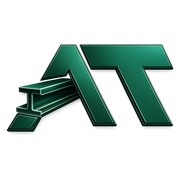
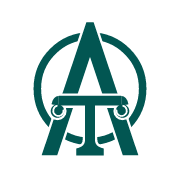
feat(brand): new AT-circle mark + palette re-anchored on #025652
Logo — the owner's flat monogram (A over a broken ring, I-beam T with
rolled crossbar ends) rebuilt as vector: inline BrandMark component
painting in currentColor (brand teal on light, lifted teal in dark,
white over the hero), with the ring/letter gaps as masks so the mark
sits on any background. Site header, admin topbar, proforma letterhead
and the full favicon set (32/192/512/apple, PNGs rendered from the SVG
source of truth in brand/ahantime-mark.svg) all switch to it.

Palette — the emerald ramp is re-derived as a single deep-teal hue
anchored exactly at #025652 (= -700); action/accent/focus/chart tokens
re-tone through the existing --emerald-* names. Steel panel surfaces
tint toward the same teal so panels and mark read as one material.
Contrast: white on --color-action 6.0:1, accent-text on white 8.6:1,
dark-theme accent on surface 4.7:1 — all AA. Hardcoded emeralds in
global-error, catalog export sheet and category art follow the ramp,
and the browser/PWA theme color becomes the brand teal.

385 tests + full production build verified locally.

diff --git a/web/src/styles/tokens.css b/web/src/styles/tokens.css
@@ -22,15 +22,19 @@
   --amber-50:#FFF6EA; --amber-100:#FEEBCE; --amber-200:#FBD49B; --amber-300:#F8BB66;
   --amber-400:#F6A53E; --amber-500:#F5961E; --amber-600:#DB7E0F; --amber-700:#C9740B;
   --amber-800:#A35D0A; --amber-900:#7E480A;
-  /* Brand emerald — "luxury green", pixel-matched to the ahantime_logo.png mark
-     (distinct from the gain/up green below). See §04a Logo in brand-book.md. */
-  --emerald-50:#E8F6F2; --emerald-100:#CDEBE2; --emerald-200:#9DD8C6; --emerald-300:#63C2A5;
-  --emerald-400:#1B9A73; --emerald-500:#178261; --emerald-550:#167D5D; --emerald-600:#12644B; --emerald-700:#0F523D;
-  --emerald-800:#0B4130; --emerald-900:#093124;
+  /* Brand teal — anchored to the AT-circle mark's #025652 (= -700, exact).
+     The whole ramp is the same deep-teal hue (~177°), tightly saturated, so
+     the UI reads sharp and monochromatic around the brand color (distinct
+     from the gain/up green below). Keeps the historical --emerald-* names so
+     every consumer re-tones without churn. */
+  --emerald-50:#E6F4F3; --emerald-100:#C7E8E6; --emerald-200:#94D3CF; --emerald-300:#58BAB4;
+  --emerald-400:#149B93; --emerald-500:#0A7F77; --emerald-550:#067068; --emerald-600:#04635D; --emerald-700:#025652;
+  --emerald-800:#02443F; --emerald-900:#02332F;
   --gain-50:#E9F8EF; --gain-100:#CBEFD8; --gain-500:#15A34A; --gain-600:#128B40; --gain-700:#0E6E33;
   --loss-50:#FDECEB; --loss-100:#FAD2CF; --loss-400:#EA6259; --loss-500:#E0322B; --loss-600:#C42822; --loss-700:#A11F1B;
-  /* Steel — cool gunmetal for the "factory" panels/blocks (distinct from neutral) */
-  --steel-800:#1C242E; --steel-850:#161D26; --steel-900:#111820; --steel-950:#0C1218;
+  /* Steel — gunmetal for the "factory" panels/blocks, tinted toward the brand
+     teal so the dark panels and the mark read as one material */
+  --steel-800:#162A27; --steel-850:#122220; --steel-900:#0E1B1A; --steel-950:#0A1414;
 
   /* ===== SEMANTIC COLOR — LIGHT ===== */
   --color-bg:var(--neutral-50); --color-surface:var(--neutral-0); --color-surface-sunken:var(--neutral-50);
@@ -38,9 +42,11 @@
   --color-hairline:var(--neutral-150); --color-border-strong:var(--neutral-200);
   --color-text:var(--neutral-700); --color-text-strong:var(--neutral-900); --color-text-muted:var(--neutral-500);
   --color-text-placeholder:var(--neutral-400); --color-text-inverse:var(--neutral-0);
+  /* The mark itself — exact brand teal on light surfaces (lifted in dark). */
+  --color-brand:var(--emerald-700);
   --color-accent:var(--emerald-500); --color-accent-text:var(--emerald-700); --color-accent-tint:var(--emerald-50);
-  /* emerald-550, not -500: white text on -500 is 4.77:1, already AA, but -550
-     clears with more margin (5.09:1) for a near-imperceptible shift, applied
+  /* emerald-550, not -500: white text on -500 is 5.2:1, already AA, but -550
+     clears with more margin (6.0:1) for a near-imperceptible shift, applied
      once here so every action button/badge site-wide inherits it.
      --color-accent/-focus deliberately still use -500 — unaffected. */
   --color-action:var(--emerald-550); --color-action-hover:var(--emerald-400); --color-action-press:var(--emerald-600);
@@ -51,7 +57,7 @@
   --color-overlay:rgba(15,19,24,.55);
   /* Gunmetal panel — same in both themes (the "steel terminal" surfaces) */
   --color-panel:var(--steel-900); --color-panel-raised:var(--steel-800);
-  --color-on-panel:#EDF2F6; --color-on-panel-muted:#8D9AA8;
+  --color-on-panel:#EAF2F1; --color-on-panel-muted:#8AA19E;
   --color-panel-hairline:rgba(255,255,255,.09);
 
   /* ===== BI / CHART TOKENS — LIGHT =====
@@ -144,7 +150,8 @@
   --color-surface-inverse:var(--neutral-900); --color-hairline:rgba(255,255,255,.08); --color-border-strong:var(--neutral-700);
   --color-text:var(--neutral-100); --color-text-strong:var(--neutral-0); --color-text-muted:var(--neutral-400);
   --color-text-placeholder:var(--neutral-500);
-  --color-accent:var(--emerald-400); --color-accent-text:var(--emerald-300); --color-accent-tint:rgba(23,130,97,.16);
+  --color-brand:var(--emerald-300);
+  --color-accent:var(--emerald-400); --color-accent-text:var(--emerald-300); --color-accent-tint:rgba(10,127,119,.16);
   --color-action:var(--emerald-550); --color-on-action:var(--neutral-0); --color-action-hover:var(--emerald-400); --color-action-press:var(--emerald-600); --color-action-text:var(--emerald-300); --color-focus:var(--emerald-400);
   --color-overlay:rgba(0,0,0,.6);
   --shadow-sm:0 2px 8px rgba(0,0,0,.4); --shadow-md:0 8px 24px rgba(0,0,0,.5); --shadow-lg:0 16px 48px rgba(0,0,0,.6);

diff --git a/web/src/components/layout/BrandMark.tsx b/web/src/components/layout/BrandMark.tsx
@@ -1,0 +1,63 @@
+import { useId } from 'react';
+
+/**
+ * The Ahantime mark — A + I-beam T inside a broken ring — as inline vector
+ * (source of truth: public/brand/ahantime-mark.svg, PNG derivatives for
+ * favicons/print are rendered from it). Inline because the mark paints in
+ * `currentColor`: brand teal on light surfaces, lifted teal in dark theme,
+ * white over the hero — one asset, no per-context raster variants. The
+ * ring/letter separation gaps are masks (truly transparent), so the mark
+ * sits on any background. viewBox 1000×1080 → width ≈ 0.926 × height.
+ */
+export function BrandMark({ size = 38, className }: { size?: number; className?: string }) {
+  const uid = useId();
+  const ring = `${uid}-ring`;
+  const legsM = `${uid}-legs`;
+  const bar = `${uid}-bar`;
+  const g = { fill: '#000', stroke: '#000', strokeWidth: 36 } as const;
+  return (
+    <svg
+      width={Math.round(size * (1000 / 1080))}
+      height={size}
+      viewBox="0 0 1000 1080"
+      className={className}
+      aria-hidden="true"
+      focusable="false"
+    >
+      <defs>
+        <path id={`${uid}-A`} d="M472,20 L528,20 L872,1042 L752,1042 L500,285 L248,1042 L128,1042 Z" />
+        <g id={`${uid}-T`}>
+          <path d="M260,585 H740 V660 H260 Z" />
+          <circle cx="250" cy="702" r="52" />
+          <path d="M260,585 Q216,588 204,650 L260,660 Z" />
+          <circle cx="750" cy="702" r="52" />
+          <path d="M740,585 Q784,588 796,650 L740,660 Z" />
+        </g>
+        <path
+          id={`${uid}-S`}
+          d="M462,655 H538 V920 C538,962 560,978 606,990 L606,1044 H394 L394,990 C440,978 462,962 462,920 Z"
+        />
+        <mask id={ring}>
+          <rect width="1000" height="1080" fill="#fff" />
+          <use href={`#${uid}-A`} {...g} />
+          <use href={`#${uid}-T`} {...g} />
+          <use href={`#${uid}-S`} {...g} />
+        </mask>
+        <mask id={legsM}>
+          <rect width="1000" height="1080" fill="#fff" />
+          <use href={`#${uid}-T`} {...g} />
+          <use href={`#${uid}-S`} {...g} />
+        </mask>
+        <mask id={bar}>
+          <rect width="1000" height="1080" fill="#fff" />
+          <path d="M296,690 A40,40 0 1 1 250,660" fill="none" stroke="#000" strokeWidth="13" />
+          <path d="M704,690 A40,40 0 1 0 750,660" fill="none" stroke="#000" strokeWidth="13" />
+        </mask>
+      </defs>
+      <circle cx="500" cy="530" r="405" fill="none" stroke="currentColor" strokeWidth="58" mask={`url(#${ring})`} />
+      <use href={`#${uid}-A`} fill="currentColor" mask={`url(#${legsM})`} />
+      <use href={`#${uid}-T`} fill="currentColor" mask={`url(#${bar})`} />
+      <use href={`#${uid}-S`} fill="currentColor" />
+    </svg>
+  );
+}

diff --git a/web/src/components/catalog/ExportMenu.tsx b/web/src/components/catalog/ExportMenu.tsx
@@ -48,10 +48,10 @@ export function ExportMenu({ rows, title }: { rows: PriceRow[]; title: string })
       <style>
         table{border-collapse:collapse;font-family:Tahoma,'B Nazanin',sans-serif;}
         .brand{font-size:20px;font-weight:800;color:#171C22;}
-        .brand .a{color:#178261;}
+        .brand .a{color:#0A7F77;}
         .meta{color:#64707E;font-size:12px;}
         .foot{color:#97A2B0;font-size:11px;}
-        th{background:#178261;color:#FFFFFF;font-weight:700;border:1px solid #12644B;padding:8px 10px;text-align:right;}
+        th{background:#0A7F77;color:#FFFFFF;font-weight:700;border:1px solid #04635D;padding:8px 10px;text-align:right;}
         td{border:1px solid #E5E9F0;padding:6px 10px;text-align:right;font-size:12px;color:#171C22;mso-number-format:'\\@';}
         tr.even td{background:#F4F7FA;}
       </style></head><body>
@@ -87,7 +87,7 @@ export function ExportMenu({ rows, title }: { rows: PriceRow[]; title: string })
       <style>
         body{font-family:Tahoma,sans-serif;color:#171C22;padding:24px;}
         .bar{display:flex;justify-content:space-between;align-items:center;border-bottom:2px solid #171C22;padding-bottom:12px;margin-bottom:16px;}
-        .brand{font-size:22px;font-weight:800;} .brand span{color:#178261;}
+        .brand{font-size:22px;font-weight:800;} .brand span{color:#0A7F77;}
         .meta{color:#64707E;font-size:13px;}
         table{width:100%;border-collapse:collapse;font-size:13px;}
         th,td{border:1px solid #E5E9F0;padding:8px 10px;text-align:right;}
@@ -130,7 +130,7 @@ export function ExportMenu({ rows, title }: { rows: PriceRow[]; title: string })
     ctx.fillStyle = '#171C22';
     ctx.font = '800 26px Tahoma';
     ctx.fillText('آهنتایم', width - padX, 40);
-    ctx.fillStyle = '#178261';
+    ctx.fillStyle = '#0A7F77';
     ctx.fillRect(width - padX - 150, 56, 150, 3);
     ctx.fillStyle = '#64707E';
     ctx.font = '14px Tahoma';

diff --git a/web/src/components/layout/Logo.tsx b/web/src/components/layout/Logo.tsx
@@ -1,14 +1,13 @@
-import Image from 'next/image';
 import Link from 'next/link';
 import { routes } from '@/lib/routes';
 import styles from './Logo.module.css';
-import logoMark from '../../../public/brand/ahantime-logo.png';
+import { BrandMark } from './BrandMark';
 
 /**
- * Ahantime lockup — the official AT + I-beam mark (brand/ahantime_logo.png,
- * see brand-book.md §04) + wordmark. The mark is a fixed-color raster asset
- * (not currentColor), so it renders identically in light/dark contexts.
- * `compact` drops the wordmark for the condensed header.
+ * Ahantime lockup — the AT-circle mark (inline vector, see BrandMark) +
+ * wordmark. The mark rides `currentColor`, colored via .mark in CSS: brand
+ * teal on light, lifted teal in dark theme, white in the `light` hero
+ * variant. `compact` drops the wordmark for the condensed header.
  */
 export function Logo({ compact = false, light = false }: { compact?: boolean; light?: boolean }) {
   return (
@@ -17,10 +16,7 @@ export function Logo({ compact = false, light = false }: { compact?: boolean; li
       className={`${styles.logo} ${light ? styles.light : ''}`}
       aria-label="آهنتایم — خانه"
     >
-      {/* Rendered ~36px tall (~66px wide). `sizes` pins the preloaded srcset
-          candidate to that size instead of Next's default 100vw, which was
-          preloading a ~1920px variant of a 640×350 asset on the critical path. */}
-      <Image src={logoMark} alt="" className={styles.mark} sizes="66px" priority unoptimized={false} />
+      <BrandMark size={38} className={styles.mark} />
       {!compact && (
         <span className={styles.word}>
           <span className={styles.wordmark}>آهنتایم</span>

diff --git a/web/src/app/admin/layout.tsx b/web/src/app/admin/layout.tsx
@@ -1,5 +1,4 @@
 import type { Metadata } from 'next';
-import Image from 'next/image';
 import Link from 'next/link';
 import { requirePermission } from '@/lib/auth/guards';
 import { can, permissionForAdminPath } from '@/lib/auth/roles';
@@ -9,8 +8,8 @@ import { AdminAlerts } from '@/components/admin/AdminAlerts';
 import { CommandPalette } from '@/components/admin/CommandPalette';
 import { LogoutButton } from '@/components/auth/LogoutButton';
 import { AdminThemeToggle } from './AdminThemeToggle';
+import { BrandMark } from '@/components/layout/BrandMark';
 import styles from './admin.module.css';
-import logoMark from '../../../public/brand/ahantime-logo.png';
 
 /** Admin shell — noindex; server-gated on admin:access (404 for non-staff). */
 export const metadata: Metadata = { robots: { index: false, follow: false } };
@@ -82,7 +81,7 @@ export default async function AdminLayout({ children }: { children: React.ReactN
       </a>
       <header className={styles.topbar}>
         <Link href={routes.admin.dashboard()} className={styles.brand}>
-          <Image src={logoMark} alt="" className={styles.brandMark} priority />
+          <BrandMark size={28} className={styles.brandMark} />
           پنل مدیریت
         </Link>
         {/* Mobile/tablet: one horizontally-scrollable strip (never a wall of

diff --git a/web/src/components/layout/Logo.module.css b/web/src/components/layout/Logo.module.css
@@ -12,12 +12,7 @@
 .mark {
   display: block;
   flex: none;
-  /* Physical width+height (not logical/auto): iOS Safari mis-derives the box
-     of a replaced element from block-size + inline-size:auto, painting the
-     wordmark over the mark. 640×350 asset → 66×36. */
-  width: 66px;
-  height: 36px;
-  object-fit: contain;
+  color: var(--color-brand);
 }
 
 .word {
@@ -38,6 +33,9 @@
 }
 
 /* Light variant — over the dark hero overlay */
+.light .mark {
+  color: #fff;
+}
 .light .wordmark {
   color: var(--color-on-action);
 }

diff --git a/web/src/app/layout.tsx b/web/src/app/layout.tsx
@@ -57,7 +57,7 @@ export const viewport: Viewport = {
   // Light-theme page background (--neutral-50): the site is light-only for
   // visitors (see public/theme-init.js), so browser chrome matches — was the
   // dark gunmetal #171C22.
-  themeColor: '#F4F7FA',
+  themeColor: '#025652',
 };
 
 export default async function RootLayout({ children }: { children: React.ReactNode }) {

diff --git a/web/src/app/global-error.tsx b/web/src/app/global-error.tsx
@@ -51,7 +51,7 @@ export default function GlobalError({ error, reset }: { error: Error; reset: () 
             onClick={reset}
             style={{
               marginTop: 24,
-              background: '#178261',
+              background: '#0A7F77',
               color: '#171C22',
               border: 0,
               borderRadius: 6,

diff --git a/web/src/components/catalog/CategoryArt.tsx b/web/src/components/catalog/CategoryArt.tsx
@@ -14,7 +14,7 @@ export function CategoryArt({ slug, size = 64 }: Props) {
     'aria-hidden': true,
     focusable: false,
   } as const;
-  const A = '#178261'; // emerald (brand) accent
+  const A = '#0A7F77'; // brand teal accent
 
   switch (slug) {
     case 'rebar': // ribbed bars (bundle)

diff --git a/web/src/app/manifest.ts b/web/src/app/manifest.ts
@@ -11,7 +11,7 @@ export default function manifest(): MetadataRoute.Manifest {
     start_url: '/',
     display: 'standalone',
     background_color: '#F4F7FA',
-    theme_color: '#F4F7FA',
+    theme_color: '#025652',
     lang: 'fa',
     dir: 'rtl',
     icons: [

diff --git a/web/src/app/admin/admin.module.css b/web/src/app/admin/admin.module.css
@@ -29,8 +29,7 @@
 .brandMark {
   display: block;
   flex: none;
-  block-size: 28px;
-  inline-size: auto;
+  color: var(--color-brand);
 }
 
 /* ==================== mobile/tablet: one scrollable strip ==================== */
